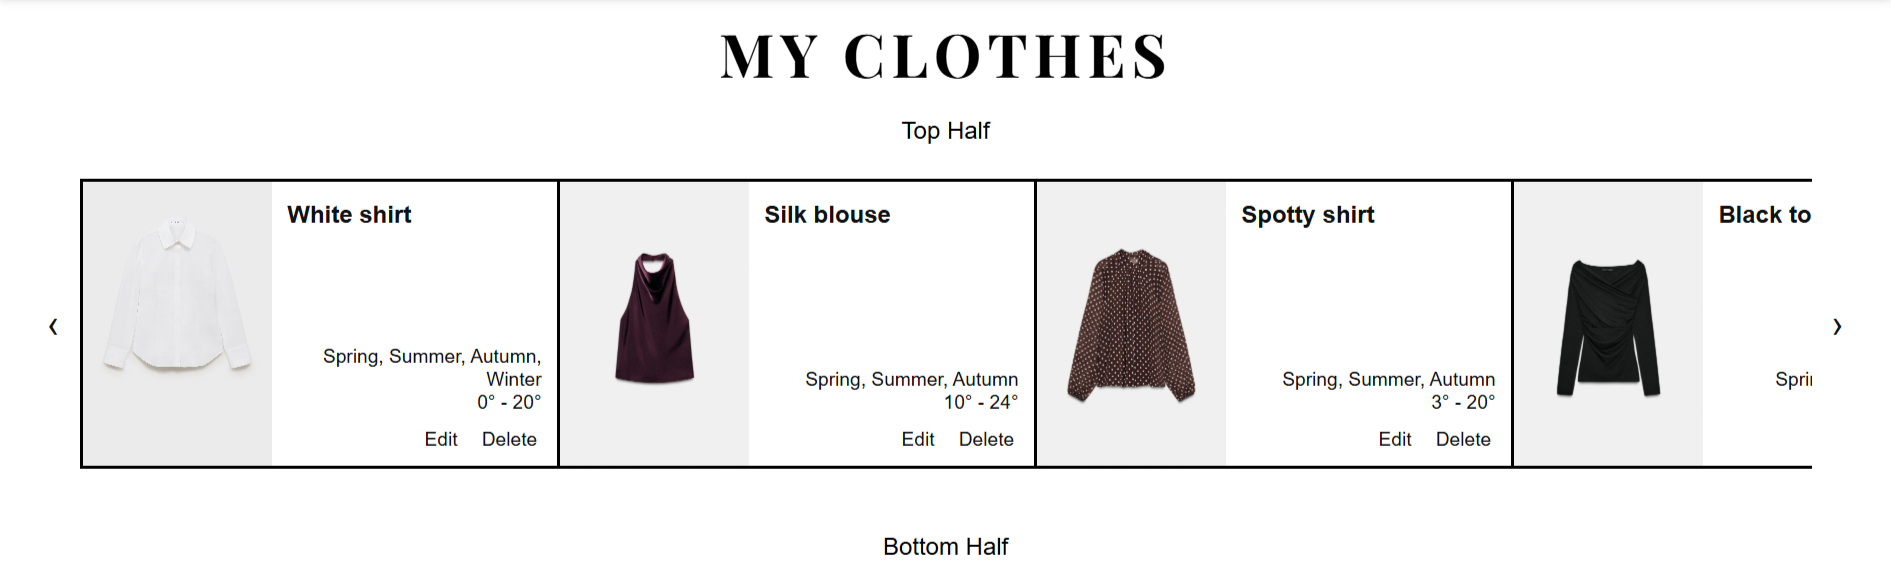
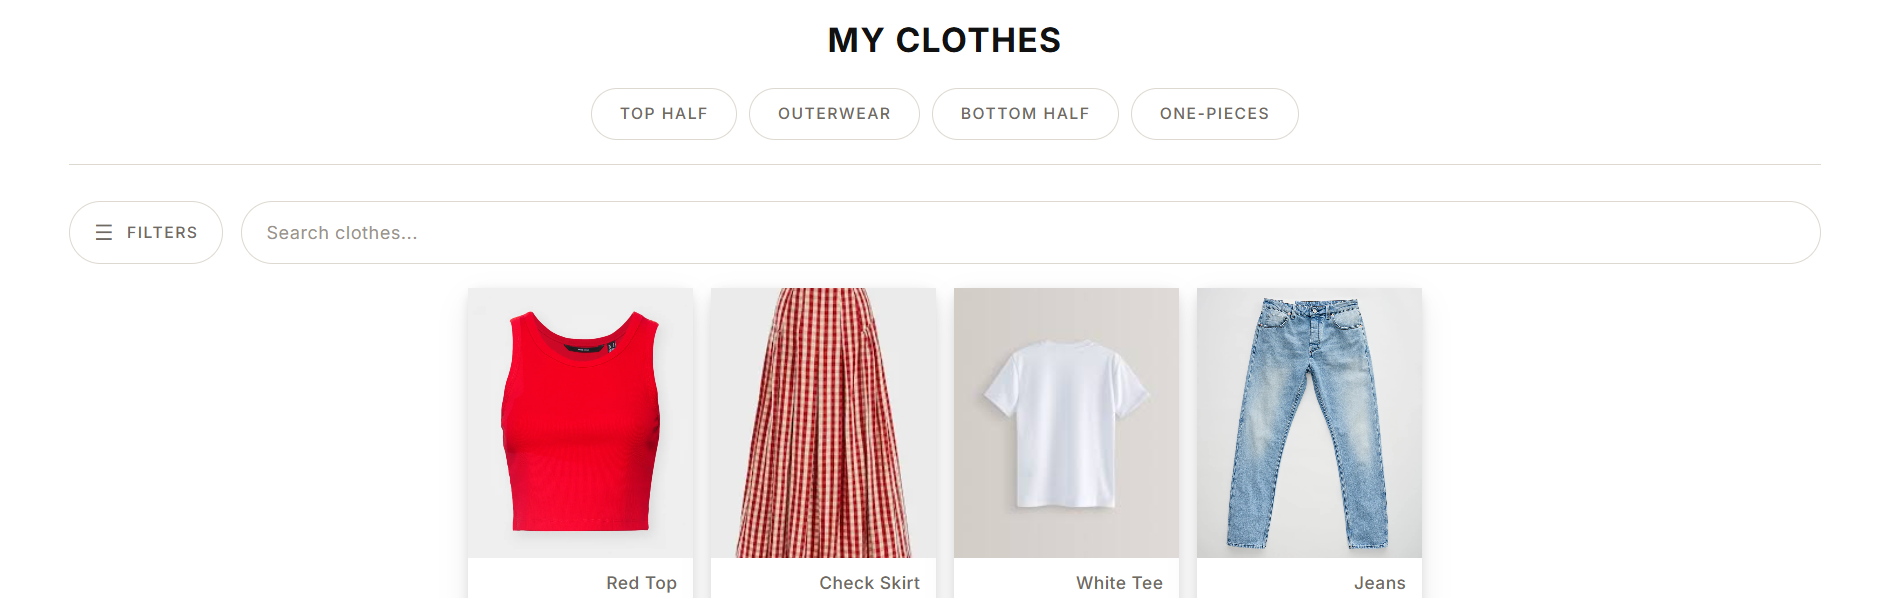
added new projects

diff --git a/src/components/ProjectGrid.jsx b/src/components/ProjectGrid.jsx
@@ -2,28 +2,95 @@ import React from "react";
 import "./projectGrid.css";
 
 const projects = [
-  {
-    id: 1,
+
+
+    {
+  id: 1,
+  title: "Cherry Volunteer Organiser",
+  logo: "/cherry-logo.png",
+  main: "/cherry-logo.png",
+  type: "web",
+  overview:
+    "A full-stack volunteer management and project coordination platform built for Cherry. \
+    The application combines member profiles and a searchable volunteer directory with a \
+    lightweight project-management system for turning issues into decisions and actionable tasks. \
+    It includes secure account onboarding, email verification, admin approval, project and issue \
+    management, collaborative polls, task assignment and resolution tracking, and role-based \
+    administration.",
+  technologies: [
+    "Next.js",
+    "React",
+    "MongoDB",
+    "Auth.js",
+    "Node.js",
+  ],
+      links: [
+      { label: "GitHub", url: "https://github.com/katag1001/volunteer-app" },
+      { label: "Site", url: "https://cherry.org.uk/" }
+    ]
+},
+
+
+  { 
+    id: 2,
+    title: "Cherry",
+    logo: "/cherry-logo.png",
+    main: "/cherry-app-main.PNG",
+    type: "mobile",
+    overview:
+      "Cherry is a nonprofit, open-source app building a digital platform similar to Vinted \
+      that combines sustainable fashion with charitable giving. The platform enables users to buy \
+      and sell pre-loved clothing and accessories, with proceeds going to charities of their choice. \
+      As a backend engineer, I contribute to the development and maintenance of the platform \
+      building and improving backend services, APIs, data handling, and core application \
+      functionality as part of the open-source development team.",
+    technologies: [    
+    "Next.js",
+    "MongoDB",
+    "Node.js"],
+    links: [
+      { label: "GitHub", url: "https://github.com/Cherry-CIC/MVP" },
+      { label: "Site", url: "https://cherry.org.uk/" }
+    ]
+  },
+
+    {
+    id: 3,
     title: "Wearable",
     logo: "/wearable_logo.png",
     main: "/wearable_main.png",
     type: "web",
     overview:
-      "Wearable is a full-stack web app designed to streamline outfit planning by allowing users to upload and categorize their clothing. Leveraging a React frontend and a Node.js backend with Express, the app uses a bespoke algorithm to automatically generate outfit combinations based on factors like color, print, season, and type. It integrates with a weather API to provide daily, weather-aware outfit recommendations by pulling real-time temperature data. User wardrobes and outfit matches are collected in a MongoDB database. The app ensures variety in outfit suggestions by storing the most recently worn date for both items and outfits. It incorporates user authentication with JWT for secure access and personalized recommendations.",
+      "Wearable is a full-stack web app designed to streamline outfit planning by allowing users \
+      to upload and categorize their clothing. Leveraging a React frontend and a Node.js backend \
+      with Express, the app uses a bespoke algorithm to automatically generate outfit combinations \
+      based on factors like color, print, season, and type. It integrates with a weather API to \
+      provide daily, weather-aware outfit recommendations by pulling real-time temperature data. \
+      User wardrobes and outfit matches are collected in a MongoDB database. The app ensures variety \
+      in outfit suggestions by storing the most recently worn date for both items and outfits. It \
+      incorporates user authentication with JWT for secure access and personalized recommendations.",
     technologies: ["React", "Vite", "Node.js", "Express", "MongoDB", "JWT", "Weather API"],
     links: [
       { label: "GitHub", url: "https://github.com/katag1001/Wearable" },
       { label: "Site", url: "https://wearable-psi.vercel.app/" }
     ]
   },
+
     {
-    id: 2,
+    id: 4,
     title: "Soul & Subconscious",
     logo: "/soul_logo2.jpg",
     main: "/soul_main.png",
     type: "web",
     overview:
-      "Soul Subconscious Hypnotherapy is a client-facing website built with React that offers an informative, calming experience for users seeking hypnotherapy services. The site includes pages like Home, About, Services, Blog, and FAQs, providing visitors with easy access to content about hypnotherapy, self-care strategies, and session booking. It features a Vite-powered development setup, CSS Modules for scoped component styling, and react-router for page navigation. The design integrates soothing, animated background elements for a calming user experience, with a mobile-friendly, accessible interface for all users.",
+      "Soul Subconscious Hypnotherapy is a client-facing website built with React that offers an \
+      informative, calming experience for users seeking hypnotherapy services. The site includes \
+      pages like Home, About, Services, Blog, and FAQs, providing visitors with easy access to \
+      content about hypnotherapy, self-care strategies, and session booking. It features a \
+      Vite-powered development setup, CSS Modules for scoped component styling, and \
+      react-router for page navigation. The design integrates soothing, animated background \
+      elements for a calming user experience, with a mobile-friendly, accessible interface for \
+      all users.",
     technologies: ["React", "Vite", "CSS Modules", "react-router", "Javascript"],
     links: [
       { label: "GitHub", url: "https://github.com/katag1001/soul_subconscious" },
@@ -32,14 +99,24 @@ const projects = [
   },
 
   {
-    id: 3,
+    id: 5,
     title: "TravlrMe Mobile App",
     logo: "/travlr_logo.png",
     main: "/travlr_main.jpg",
     qr: "/download_qr.jpg",
     type: "mobile",
     overview:
-      "TravlrMe is a comprehensive travel organization app built with React Native and Expo Go that allows users to manage trips, itineraries, packing lists, and budgets with automated cross-module data syncing. It features a dual-view itinerary system (Calendar/List), automated budgeting that tracks expenses across transport and accommodation, and seamless syncing between modules using AsyncStorage. The app’s modular architecture uses a relational logic model, where actions like adding flights or hotels auto-generate related entries in the budget and itinerary. React Native Paper powers the UI with Material Design components, while a custom Dynamic Theming Engine adapts the interface based on geographic keywords in trip names. The app is built using React Context API for global state management, with utilities like uuid for ID generation and date-fns for date manipulation, ensuring a smooth and dynamic user experience.",
+      "TravlrMe is a comprehensive travel organization app built with React Native and Expo Go \
+      that allows users to manage trips, itineraries, packing lists, and budgets with automated \
+      cross-module data syncing. It features a dual-view itinerary system (Calendar/List), \
+      automated budgeting that tracks expenses across transport and accommodation, and seamless \
+      syncing between modules using AsyncStorage. The app’s modular architecture uses a relational \
+      logic model, where actions like adding flights or hotels auto-generate related entries in the \
+      budget and itinerary. React Native Paper powers the UI with Material Design components, while \
+      a custom Dynamic Theming Engine adapts the interface based on geographic keywords in trip \
+      names. The app is built using React Context API for global state management, with utilities \
+      like uuid for ID generation and date-fns for date manipulation, ensuring a smooth and \
+      dynamic user experience.",
     technologies: ["React Native", "Expo Go", "React Context API", "React Native Paper", "async-storage", "uuid"],
    links: [
       { label: "GitHub", url: "https://github.com/katag1001/Travlr" },
@@ -47,19 +124,22 @@ const projects = [
 
   },  
   {
-    id: 4,
+    id: 6,
     title: "St Albans Evening Rehearsal Orchestra",
     logo: "/sta_logo.png",
     main: "/sta_main.png",
     type: "web",
     overview:
-      "The official website for the St Albans Evening Rehearsal Crchestra, featuring event information, rehearsal schedules, galleries, and integrated maps for venue locations.",
+      "The official website for the St Albans Evening Rehearsal Crchestra, featuring event \
+      information, rehearsal schedules, galleries, and integrated maps for venue locations.",
     technologies: ["React", "CSS", "Google Maps API"],
     links: [
       { label: "GitHub", url: "https://github.com/katag1001/sta_rehearsal_orchestra" },
       { label: "Site", url: "https://stalbans-ero.org.uk/" }
     ]
   },
+
+
 
 
   
